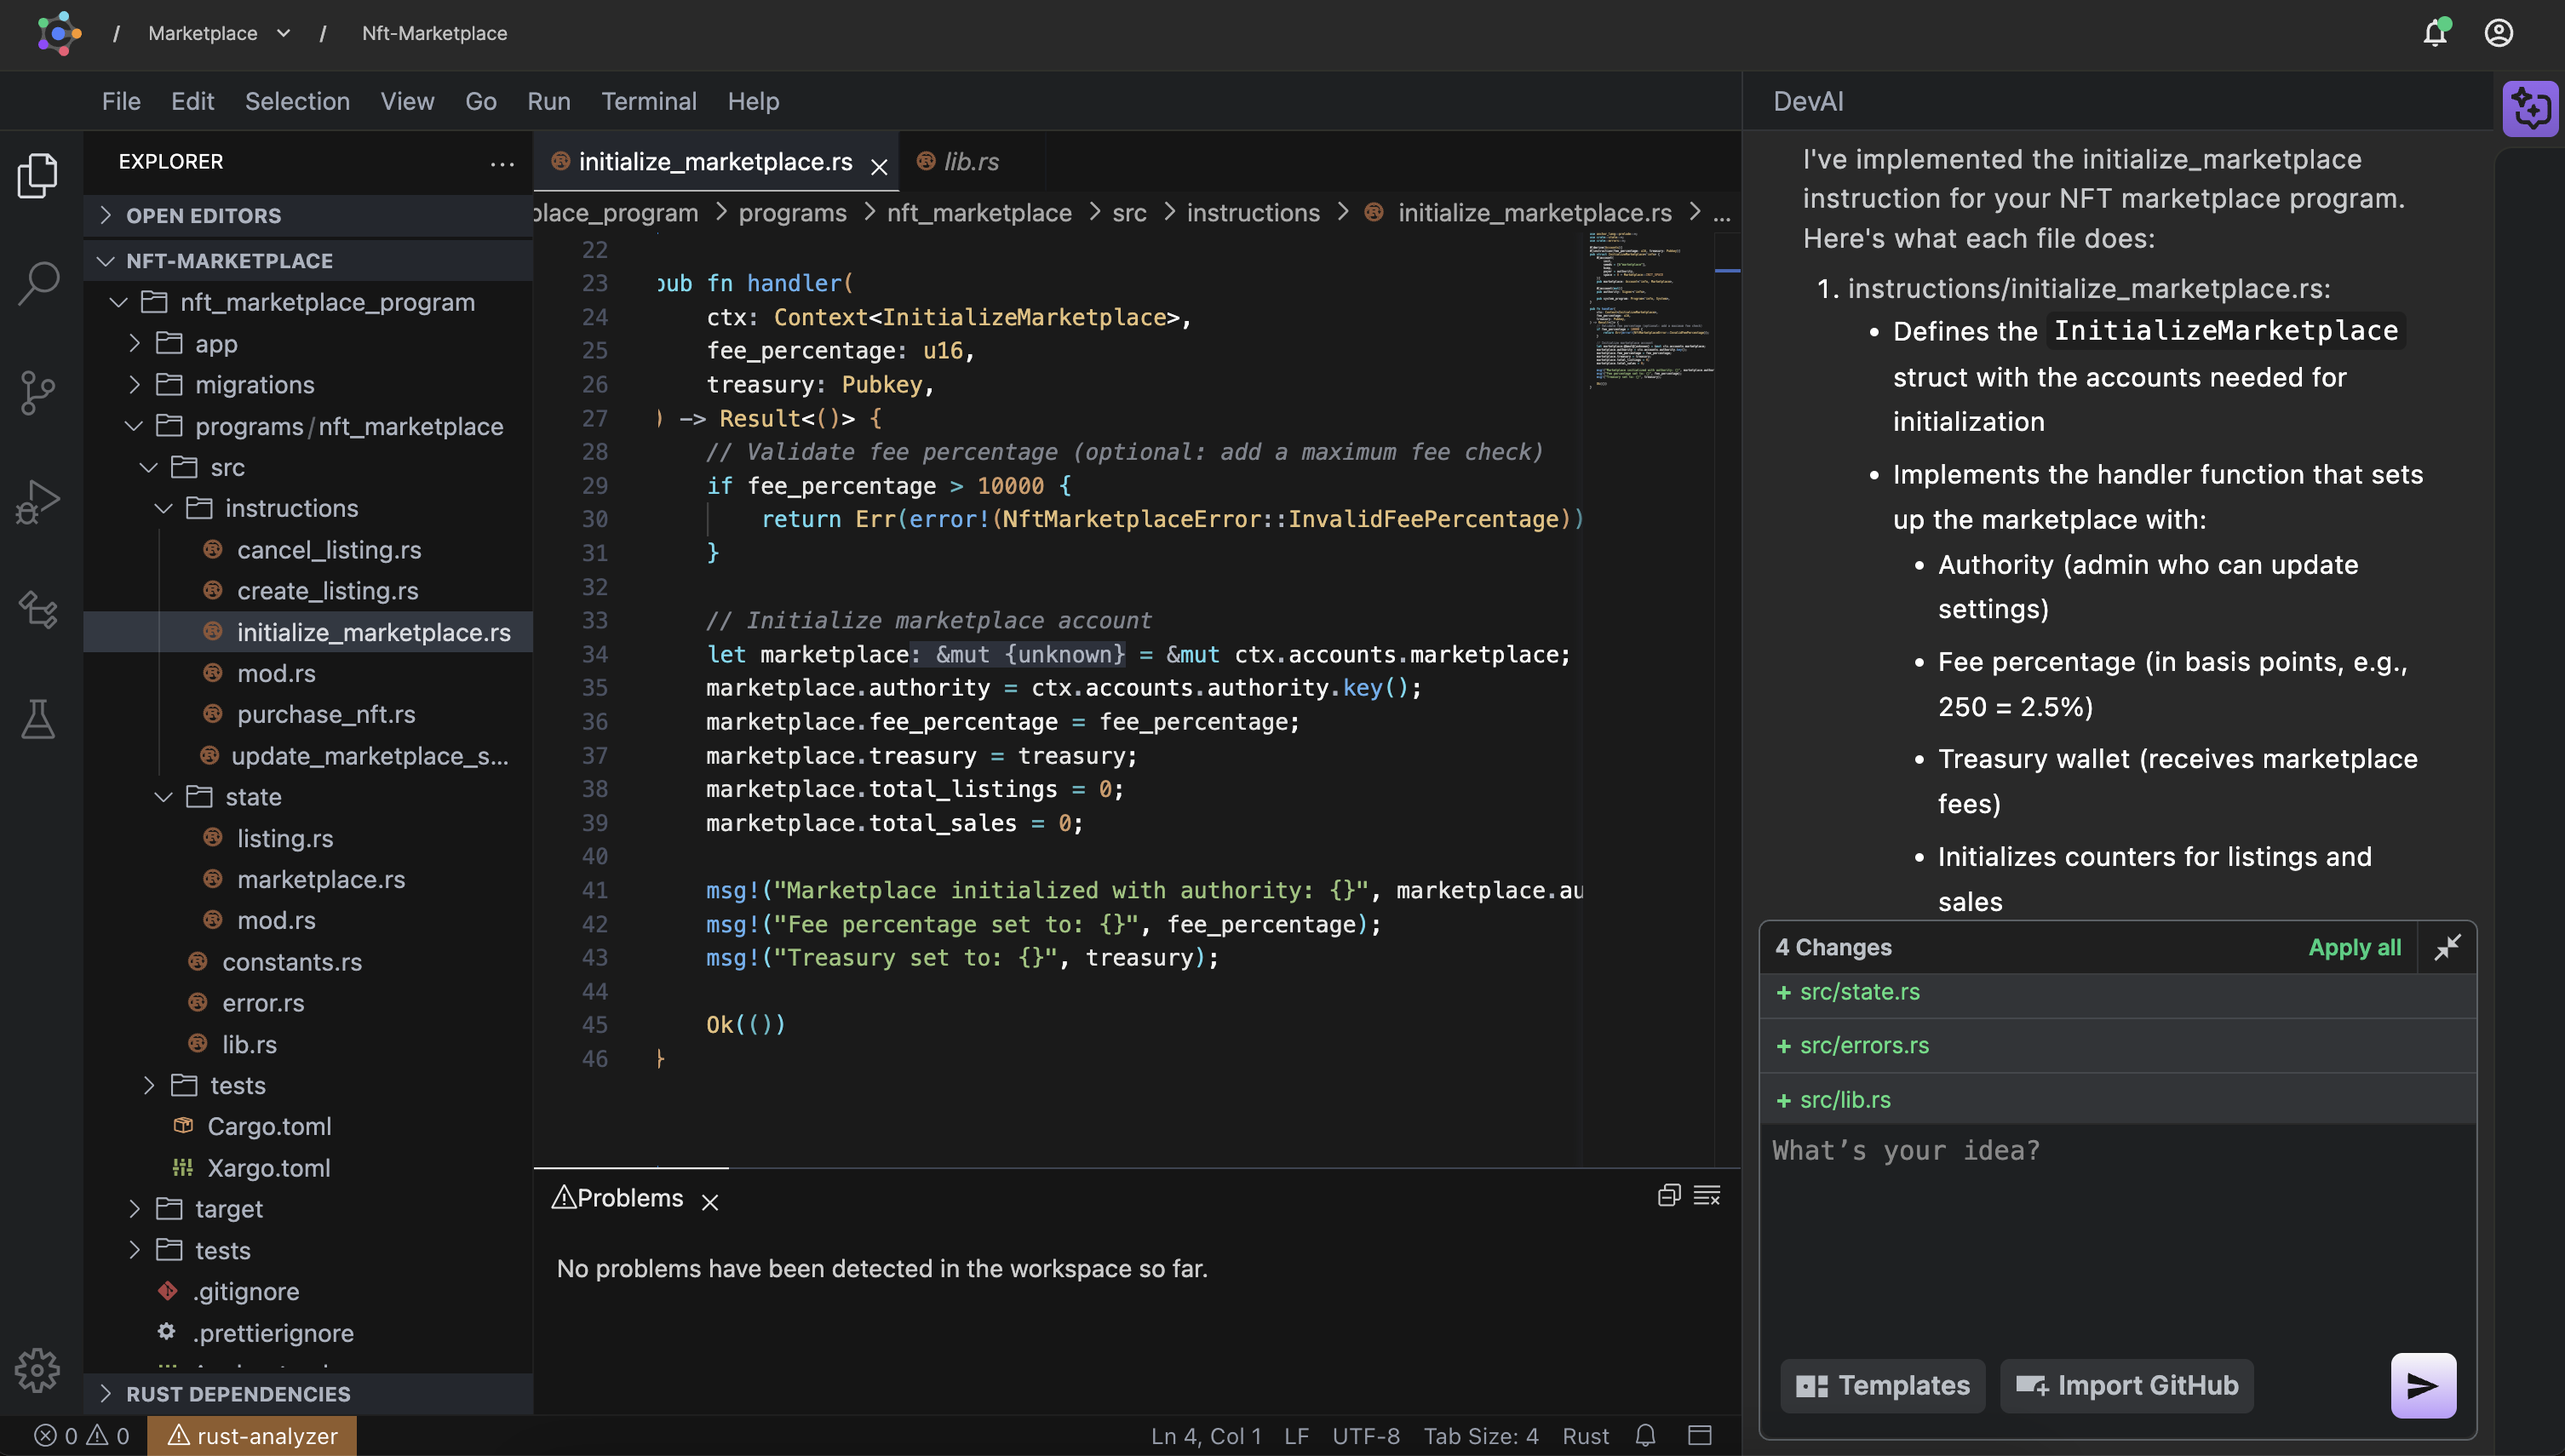
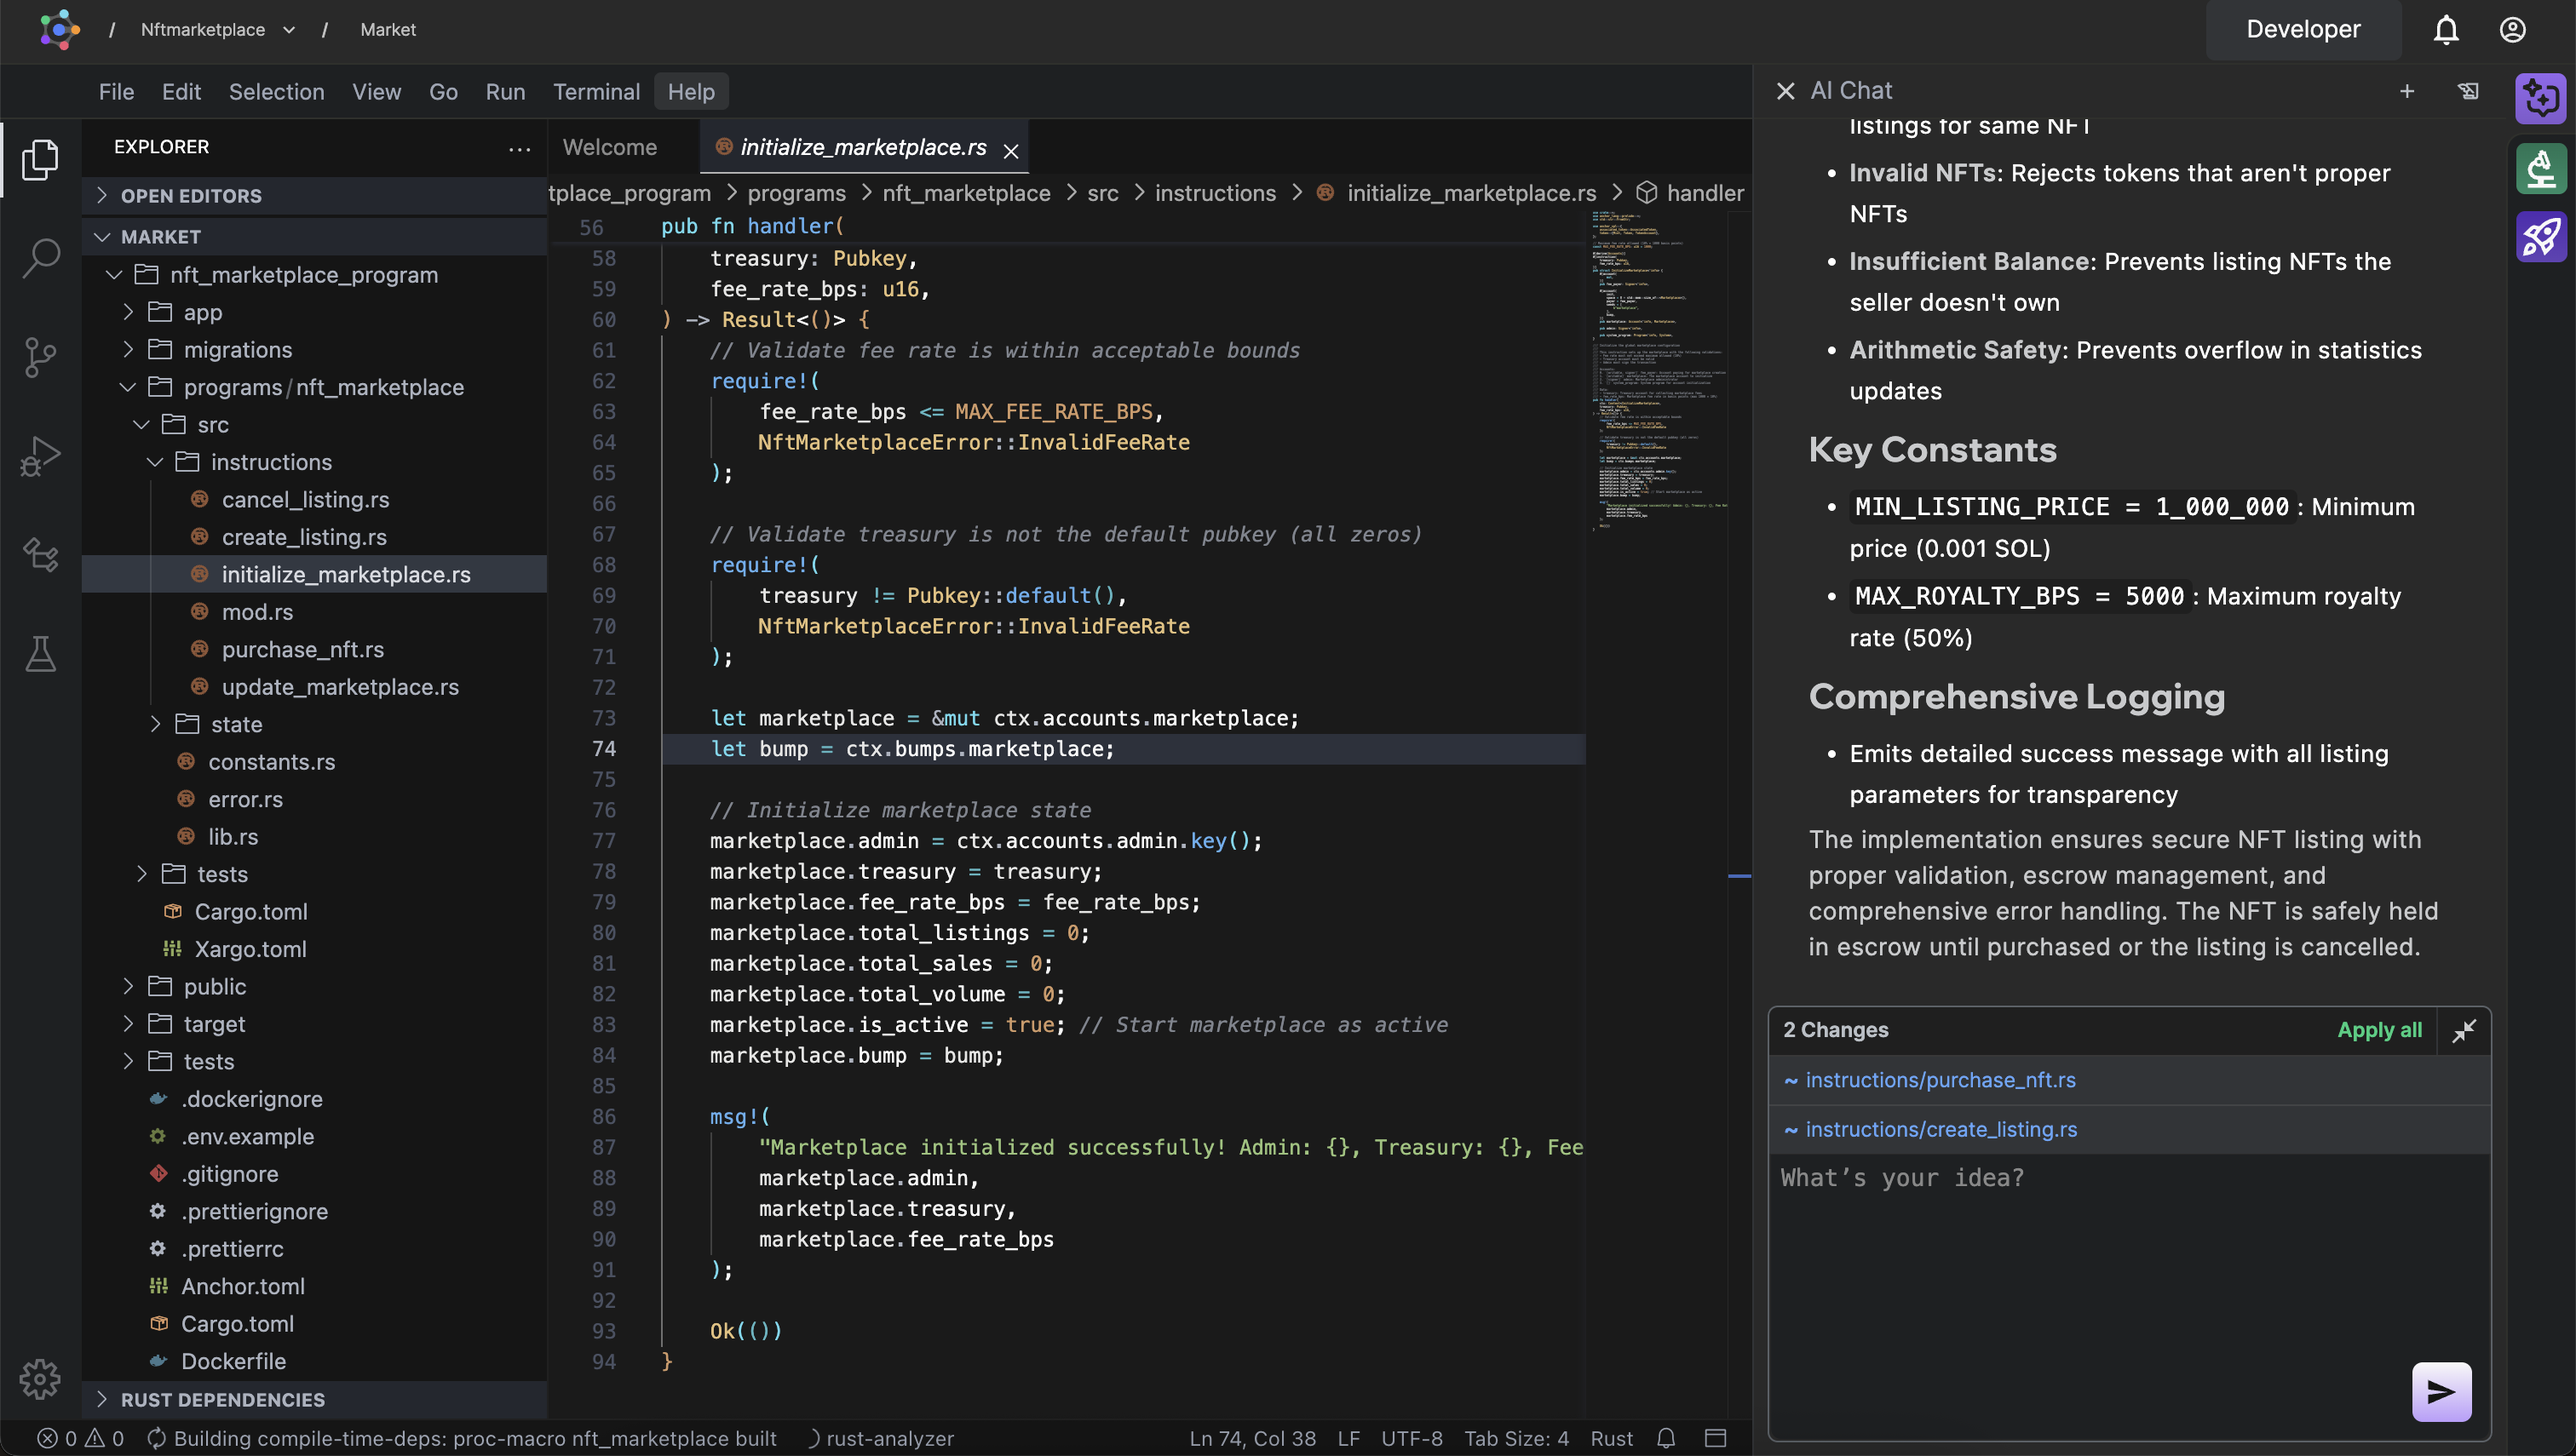
new features = documentation update (#64)
* new features = documentation update

diff --git a/sidebars.js b/sidebars.js
@@ -79,6 +79,7 @@ const sidebars = {
             "guides/solana/build-and-deploy",
             "guides/solana/ai-autocomplete",
             "guides/solana/unit-tests",
+            "guides/solana/test-ui",
             "guides/solana/escrow-program",
             "guides/solana/nft-marketplace",
             "guides/solana/twitter",

diff --git a/docs/guides/solana/test-ui.md b/docs/guides/solana/test-ui.md
@@ -1,0 +1,93 @@
+---
+slug: /guides/solana/test-ui
+---
+
+# Test UI Interface
+
+This guide shows you how to use Código's **Test UI** feature to visually test your smart contracts without writing any frontend code.
+
+> The **Test UI** provides a built-in interface to simulate and run your smart contract instructions with real inputs, accounts, and expected outputs. You can test your program's functionality, view transaction details, and inspect account data all from within the Código IDE.
+> 
+> **Works with both Anchor and Rust native programs** - the Test UI automatically adapts to your program's structure and provides the same intuitive testing experience.
+
+---
+
+## 1⃣ Access Test UI
+
+After you've successfully **built and deployed** your smart contract, you'll see a green **"Test"** icon appear in the navigation bar.
+
+<img src="/img/testui_1.png" alt="Test UI icon in navbar" style={{ width: "400px" }} />
+
+Click on the **"Test"** icon to access the testing interface, then click on **"Open test editor"**.
+
+
+---
+
+## 2⃣ Test Editor Interface
+
+The Test UI automatically generates **2 user wallets** for you to use during testing. This allows you to simulate interactions between different users.
+
+<img src="/img/testui_2.png" alt="Test editor interface" style={{ width: "700px" }} />
+
+You'll see a list of all the **instructions** available in your smart contract. Each instruction represents a method that can be called on your deployed program.
+
+---
+
+## 3⃣ Execute Instructions
+
+Click on any instruction from the list to access its testing interface.
+
+<img src="/img/testui_3.png" alt="Instruction testing interface" style={{ width: "800px" }} />
+
+Here you can:
+- **Input required accounts** - Select which user wallet will sign the transaction
+- **Set parameters** - Enter the values needed for the instruction (amounts, addresses, etc.)
+- **Review the transaction** - See all the details before sending
+
+Once you've configured the instruction, click the green **"Send Transaction"** button to execute it on the blockchain.
+
+---
+
+## 4⃣ View Transaction Details
+
+After sending a transaction, click **"View Details"** to see the results. This opens the **"Transactions"** tab.
+
+<img src="/img/testui_4.png" alt="Transaction details view" style={{ width: "800px" }} />
+
+The transaction explorer shows:
+- **Transaction status** - Success or failure with error details
+- **Accounts involved** - All accounts that participated in the transaction
+- **Instruction logs** - Detailed logs from your smart contract execution
+- **Transaction signature** - The unique identifier for this transaction
+
+This gives you complete visibility into what happened during the transaction execution.
+
+<img src="/img/testui_5.png" alt="Transaction explorer details" style={{ width: "800px" }} />
+
+---
+
+## 5⃣ Inspect Account Data
+
+Switch to the **"Accounts"** tab to view all accounts associated with your smart contract.
+
+<img src="/img/testui_6.png" alt="Accounts data view" style={{ width: "800px" }} />
+
+Here you can:
+- **Browse all accounts** - See every account created by your program
+- **View account data** - Click on any account to see its stored information
+- **Inspect attributes** - Examine the data structure and current values
+- **Track state changes** - See how account data changes after transactions
+
+This is particularly useful for understanding how your program's state evolves with each transaction.
+
+---
+
+## 🎉 You're Ready to Test!
+
+The Test UI makes it easy to:
+- ✅ Test your smart contract without writing frontend code
+- ✅ Debug issues with detailed transaction information
+- ✅ Verify account state changes
+- ✅ Share working examples with your team
+
+No more guessing if your smart contract works correctly - the Test UI gives you immediate feedback and complete visibility into your program's behavior!

diff --git a/docs/guides/solana/build-and-deploy.md b/docs/guides/solana/build-and-deploy.md
@@ -10,16 +10,72 @@ This guide walks you through the process of building and deploying your smart co
 
 ## 🧱 Prerequisites
 
-Make sure you’ve:
+Make sure you've:
 - Created a workspace on [Código Hub](https://hub.codigo.ai)
 - Generated your program with DevAI (via prompt or template)
 - Implemented the logic in your instruction files
 
-If you haven’t done these steps yet, start with [Start from Prompt](./start-from-prompt.md).
-
+If you haven't done these steps yet, start with [Start from Prompt](./start-from-prompt.md).
 
 ---
-## 1⃣ Build Your Program
+
+<details>
+<summary>
+
+## 🚀 Build and Deploy with Codigo UI
+
+The easiest way to build and deploy your smart contract is using Código's intuitive UI interface in 1 click
+
+</summary>
+
+### Step 1: Access the Deploy Button
+
+Click the **Build & Deploy** button in the Código Hub navbar.
+
+<img src="/img/codigo_deploy_ui_1.png" alt="Build and Deploy UI - Step 1" style={{ width: "600px", marginBottom: "1rem" }} />
+
+### Step 2: Select Your Environment
+
+Choose your target environment from the dropdown:
+- **Local** - For local development and testing
+- **Devnet** - For development and testing on Solana's devnet
+- **Testnet** - For testing on Solana's testnet
+- **Mainnet** - For production deployment
+
+### Step 3: Deploy
+
+Click the **Run** button to start the build and deployment process.
+
+### Step 4: Monitor Progress
+
+Watch the build and deployment progress with real-time logs.
+
+<img src="/img/codigo_deploy_ui_2.png" alt="Build and Deploy UI - Step 2" style={{ width: "450px", marginBottom: "1rem" }} />
+
+### Step 5: Success!
+
+Once completed successfully, you'll see a confirmation message with your Program ID.
+
+<img src="/img/codigo_deploy_ui_3.png" alt="Build and Deploy UI - Step 3" style={{ width: "450px", marginBottom: "1rem" }} />
+
+:::tip Troubleshooting
+If the deployment fails, you'll see an error message with a **"Diagnostic the error with AI"** button. Clicking this button will automatically copy the error details to the AI chat, allowing the AI to help you diagnose and fix the issue.
+:::
+
+</details>
+
+---
+
+<details>
+<summary>
+
+## 🖥 Build and Deploy with Terminal
+
+For advanced users who prefer command line deployment
+
+</summary>
+
+### 1⃣ Build Your Program
 
 Open a terminal in Código Hub.
 
@@ -122,3 +178,6 @@ solana program deploy ./target/deploy/<your_program>.so
   --with-compute-unit-price 10000
   --url <your_rpc>
   --program-id ./target/deploy/<keypair>.json
+```
+
+</details>

diff --git a/docs/getting-started/quickstart-solana-native.md b/docs/getting-started/quickstart-solana-native.md
@@ -64,12 +64,11 @@ Repeat this process for each instruction file.
 
 Once all your logic is implemented, build and deploy your smart contract:
 
-Open a terminal and do :
-```bash
-cd <repo_name>
-cargo build-sbf
-solana program deploy target/deploy/<repo-name>
-```
+Select your environnement and use Codigo UI to build and deploy in 1 click
+
+<img src="/img/codigo_deploy_ui_1.png" alt="Build and Deploy UI" style={{ width: "600px" }} />
+
+For full details 👉 See [Build & Deploy guide](/guides/solana/build-and-deploy)
 
 > ✅ Código already sets up a local `solana-test-validator` and provides you with a preconfigured wallet keypair.
 

diff --git a/docs/guides/solana/index.md b/docs/guides/solana/index.md
@@ -23,6 +23,7 @@ All guides below are for Solana development using Código.
 - [How to Build & Deploy My Program](./build-and-deploy.md)  
 - [How to Write and Run Unit Tests](./unit-tests.md)  
 - [How to Implement Business Logic with AI Autocompletion](./ai-autocomplete.md)  
+- [How to test your program with Codigo UI Testing interface](./test-ui.md)  
 
 ---
 
@@ -30,3 +31,4 @@ All guides below are for Solana development using Código.
 
 - [Create an Escrow Program with DevAI](./escrow-program.md)  
 - [Create an NFT Marketplace with DevAI](./nft-marketplace.md)  
+- [Twitter On Chain (video)](./twitter.md)

diff --git a/docs/getting-started/quickstart-solana-anchor.md b/docs/getting-started/quickstart-solana-anchor.md
@@ -64,12 +64,11 @@ Repeat this process for each instruction file.
 
 Once all your logic is implemented, build and deploy your smart contract:
 
-Open a terminal and do :
-```bash
-cd <repo_name>
-anchor build
-anchor deploy
-```
+Select your environnement and use Codigo UI to build and deploy in 1 click
+
+<img src="/img/codigo_deploy_ui_1.png" alt="Build and Deploy UI" style={{ width: "600px" }} />
+
+For full details 👉 See [Build & Deploy guide](/guides/solana/build-and-deploy)
 
 > ✅ Código already sets up a local `solana-test-validator` and provides you with a preconfigured wallet keypair.
 

diff --git a/docs/guides/solana/escrow-program.md b/docs/guides/solana/escrow-program.md
@@ -124,15 +124,11 @@ Do this for all the instructions : make.rs, take.rs and refund.rs
 
 Once logic is ready:
 
-- Open terminal in Código
-- Run:
+Select your environnement and use Codigo UI to build and deploy in 1 click
 
-```bash
-anchor build
-anchor deploy
-```
+<img src="/img/codigo_deploy_ui_1.png" alt="Build and Deploy UI" style={{ width: "600px" }} />
 
-👉 For full instructions, see our [Build & Deploy guide](/guides/solana/build-and-deploy).
+For full details 👉 See [Build & Deploy guide](/guides/solana/build-and-deploy)
 
 ---
 

diff --git a/docs/development-suite/roadmap.md b/docs/development-suite/roadmap.md
@@ -17,17 +17,18 @@ This is a simplified and high-level view of our product direction.
 - Git Import  
 - Unit Tests  
 - Documentation  
-- Security Checks  
+- Security Checks
+- One-Click Build Deploy
+- Frontend & Backend Integration 
+- Frontend live preview
+- Testing Tool  
 
 ---
 
 ## 🧠 Coming Soon
 
-- One-Click Deployment  
-- Frontend & Backend Integration  
 - Real-Time Collaboration  
 - Teams and Enterprise  
-- Testing Tools  
 - Pre-Audit Checker  
 - More Templates and Protocols Integrations 
 

diff --git a/docs/guides/solana/nft-marketplace.md b/docs/guides/solana/nft-marketplace.md
@@ -144,12 +144,11 @@ Same process for the remaining instructions : `cancel_listing.rs`, `update_marke
 
 Once your logic is implemented:
 
-```bash
-anchor build
-anchor deploy
-```
+Select your environnement and use Codigo UI to build and deploy in 1 click
 
-👉 See [Build & Deploy guide](/guides/solana/build-and-deploy)
+<img src="/img/codigo_deploy_ui_1.png" alt="Build and Deploy UI" style={{ width: "600px" }} />
+
+For full details 👉 See [Build & Deploy guide](/guides/solana/build-and-deploy)
 
 ---
 

diff --git a/docs/development-suite/features.md b/docs/development-suite/features.md
@@ -109,7 +109,7 @@ Código empowers development teams:
 * **Shared workspaces** with Git sync and commenting
 * Track changes together and build faster with your team
 
-## Client Integration (Coming Soon)
+## Client Integration
 
 Generate your frontend from your smart contract:
 
